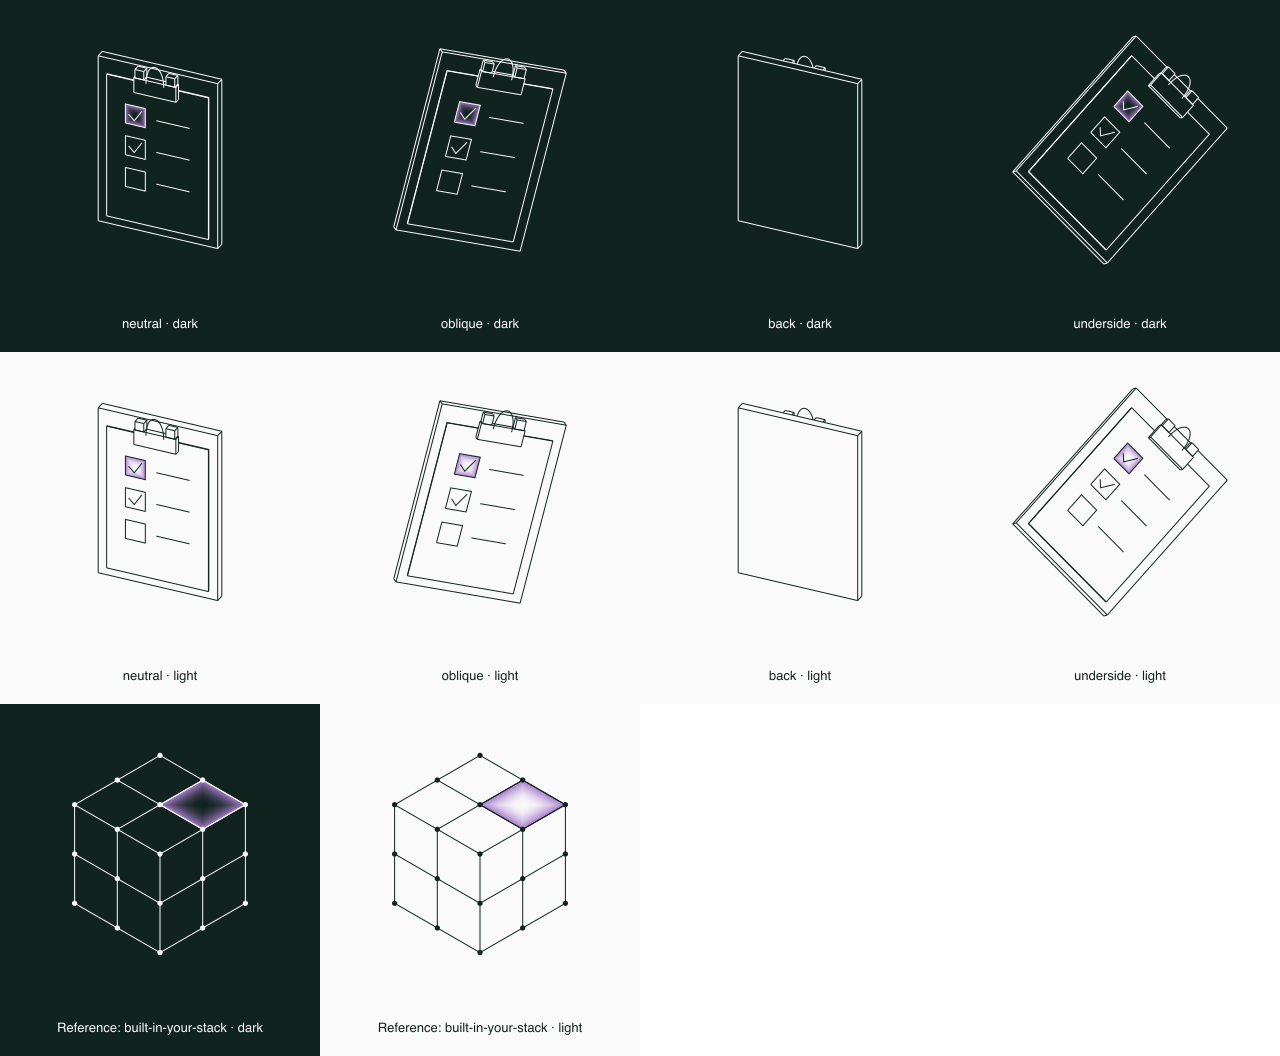
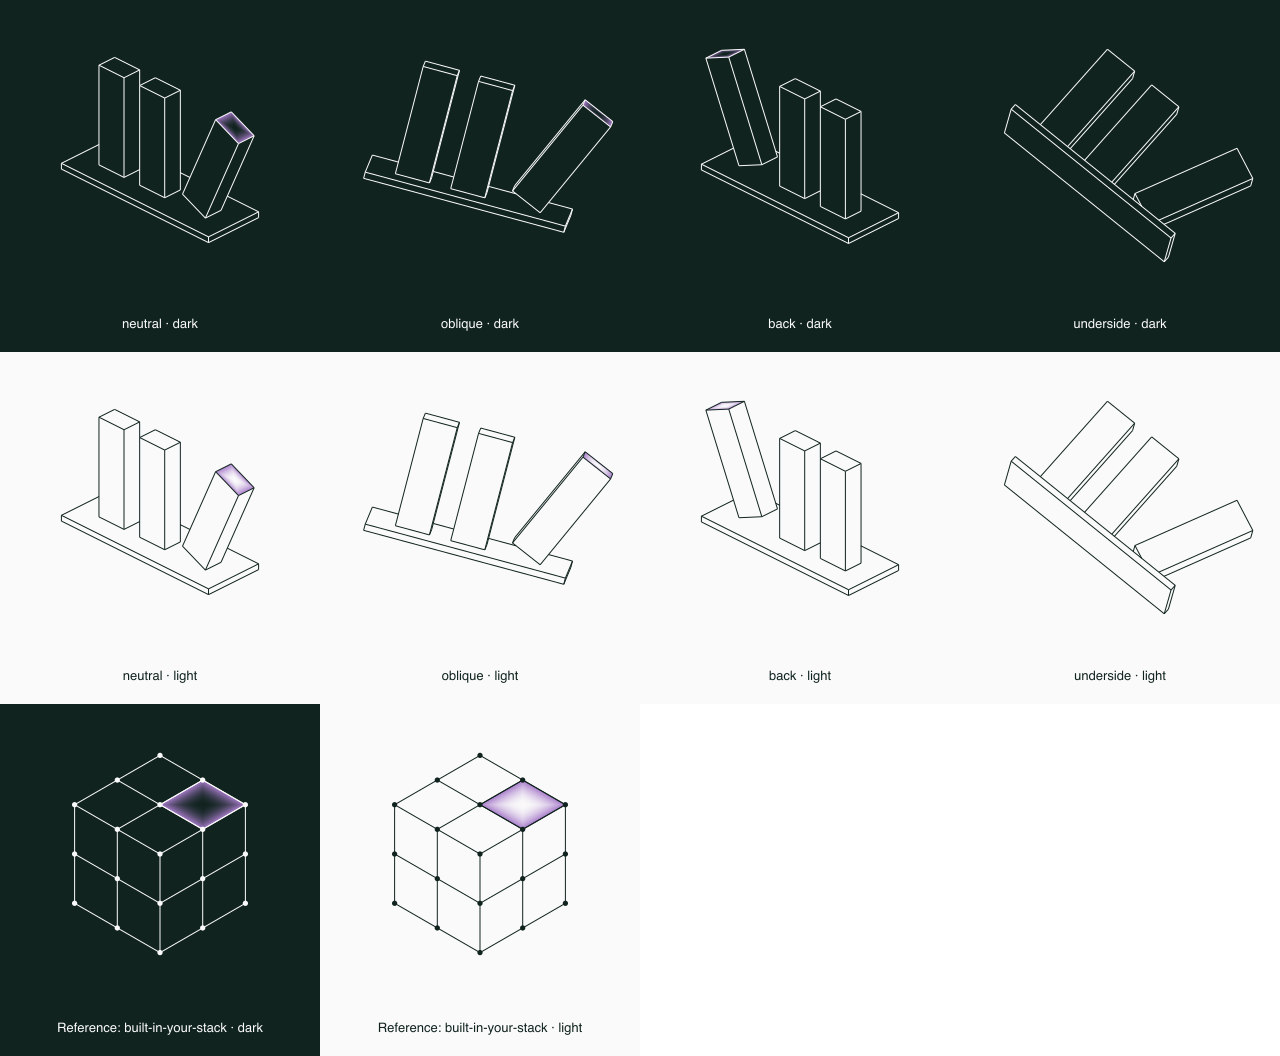
Rework write-the-evals-before-the-prompt as coherent abstract geometry

diff --git a/docs/design/blog-illustrations-2026-11-17/write-the-evals-before-the-prompt/decision.md b/docs/design/blog-illustrations-2026-11-17/write-the-evals-before-the-prompt/decision.md
@@ -1,17 +1,19 @@
-# Write the evals before the prompt
+# Write the evals before the prompt — abstract comparison
 
-The article explains that the evaluation checklist is the specification, established before the system is built. A recognizable clipboard carries three check boxes, two checkmarks and three blank rules. It contains no words or fabricated measurements. This replaces the earlier sphere and gauge with an immediately recognizable object.
+The latest user direction favors abstract geometry across the series. Three equal substantial blades share one thin reference slab. Two agree in height and orientation; the third departs by 24 degrees while remaining attached to its fixed support edge. The relationship expresses comparison against an agreed standard without a literal checklist, numbers, UI symbols or a sphere inside a frame.
 
-## Construction
+Read the original article: known correct answers define the specification before the system is built, and outcomes are measured against that standard. This is the source of the agreement/deviation concept, not an invented data chart. The three specimens have identical 32 × 104 × 20 world-space dimensions. Their thickness is real, as is the six-unit-thick supporting datum slab.
 
-The board is a complete 108 × 156 × 8 solid. A 92 × 134 × 0.8 sheet rests exactly on its front face, inset around all edges. The top clamp's back contacts the paper; two mounting feet attach to exposed board above the paper and share the clamp's upper edge. A wire handle terminates on the clamp's front face. The whole object is rigidly posed by 20 degrees around its vertical axis, retaining a consistent orthographic perspective and visible board thickness.
+## Geometry audit
 
-Only the first printed checkbox is highlighted. It is separated from the clamp by 16 units and carries an outward face normal. This avoids painting a broad paper highlight over the clip in oblique views, and the highlight disappears on rear views. All marks occupy the paper's physical front plane with tiny rendering offsets.
+The outlier rotates around its actual outer lower Z-axis edge. It does not rotate around its bottom center. Assertions inspect the transformed vertices: its two support vertices remain at the reference surface, every other vertex stays above that surface, and no corner penetrates the slab. The two aligned blades stand flat on the same surface. Their dimensions remain equal to the rotated specimen's dimensions.
 
-## Review
+The aligned specimens retain a 20-unit clear gap. The outward-leaning specimen stays more than 22 units clear of the middle one throughout its shape; no edges meet, cross or form accidental tangencies. Its support edge remains within the reference slab footprint, with the upper part deliberately leaning outward.
 
-Read the complete original article in `src/content/blog/bodies.json`. Used the requested current scene renderer and geometry primitives; `built-in-your-stack` provides framing only. The root agent applies the retained background palette, Paper/Cream gradient and thinner 1.6-unit final linework.
+The single highlight is on the outlier's true rectangular end face. Every vertex of every sibling solid lies more than 20 units behind that face's plane. Consequently, whenever this outward face is visible, those solids cannot occlude it: the fill cannot bleed over a base or neighboring specimen. The highlight disappears naturally when the face turns away.
 
-Inspected all eight original-renderer views in Dark and Light. The neutral view reads clearly as a clipboard with a checklist, rather than a flat icon. Oblique and underside views show the board and sheet thickness, connected clamp and handle, and markings that remain on the sheet. The back view correctly shows the bare rear board, with no checks or highlight bleeding through. The selected region stays clear of clip geometry. Three boxes and exactly two checkmarks remain visible on the front; no duplicate strokes, exposed mesh, impossible overlaps, detached clip pieces or text were observed.
+## Visual review
 
-Concept assertions check board front/back, paper contact, clamp contact, mounting-foot attachment, handle endpoints, row spacing, checkmark count and the highlight's separation from the clip. All eight renderer checks pass. Parent integration handles final recoloring and page review. No animation or interactive gallery testing was requested.
+Rendered and inspected neutral, oblique, back and underside views on Dark and Light using the unchanged shared renderer. All views preserve complete solids, true thickness, exact support contact and independent gaps. The leaning outlier is obvious beside the equal upright pair, and its cap remains the only colored part. No hovering support, intersecting corners, duplicate seams, hidden mesh edges or incorrect highlight overlays were observed. All eight mechanical checks and actual-vertex support/clearance/dimension assertions pass.
+
+`built-in-your-stack` supplies framing only. The original-renderer Iris review approves the geometry; the root agent applies the user's approved backgrounds, Paper/Cream gradient, 1.6-unit lines and direct SVG 4:3 presentation. The earlier clipboard and v3 page QA are historical evidence for the superseded literal direction. This is static artwork; no motion or interactive gallery checks were required.
